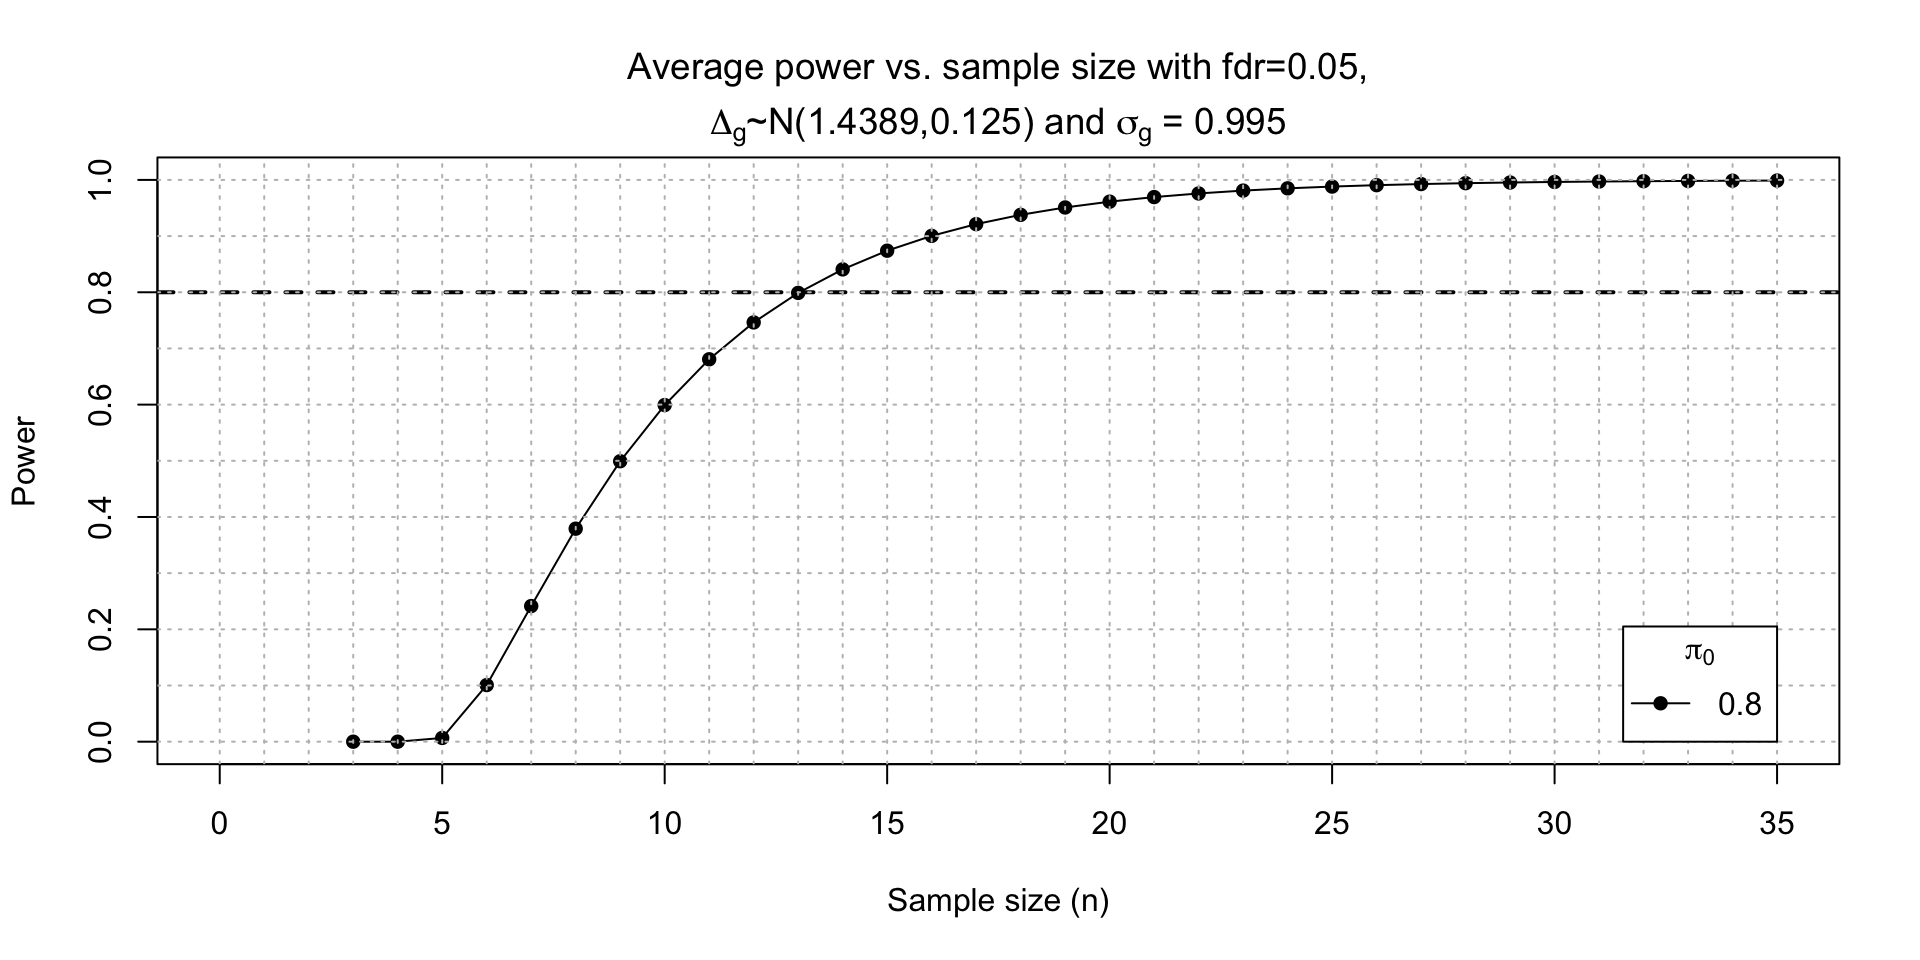
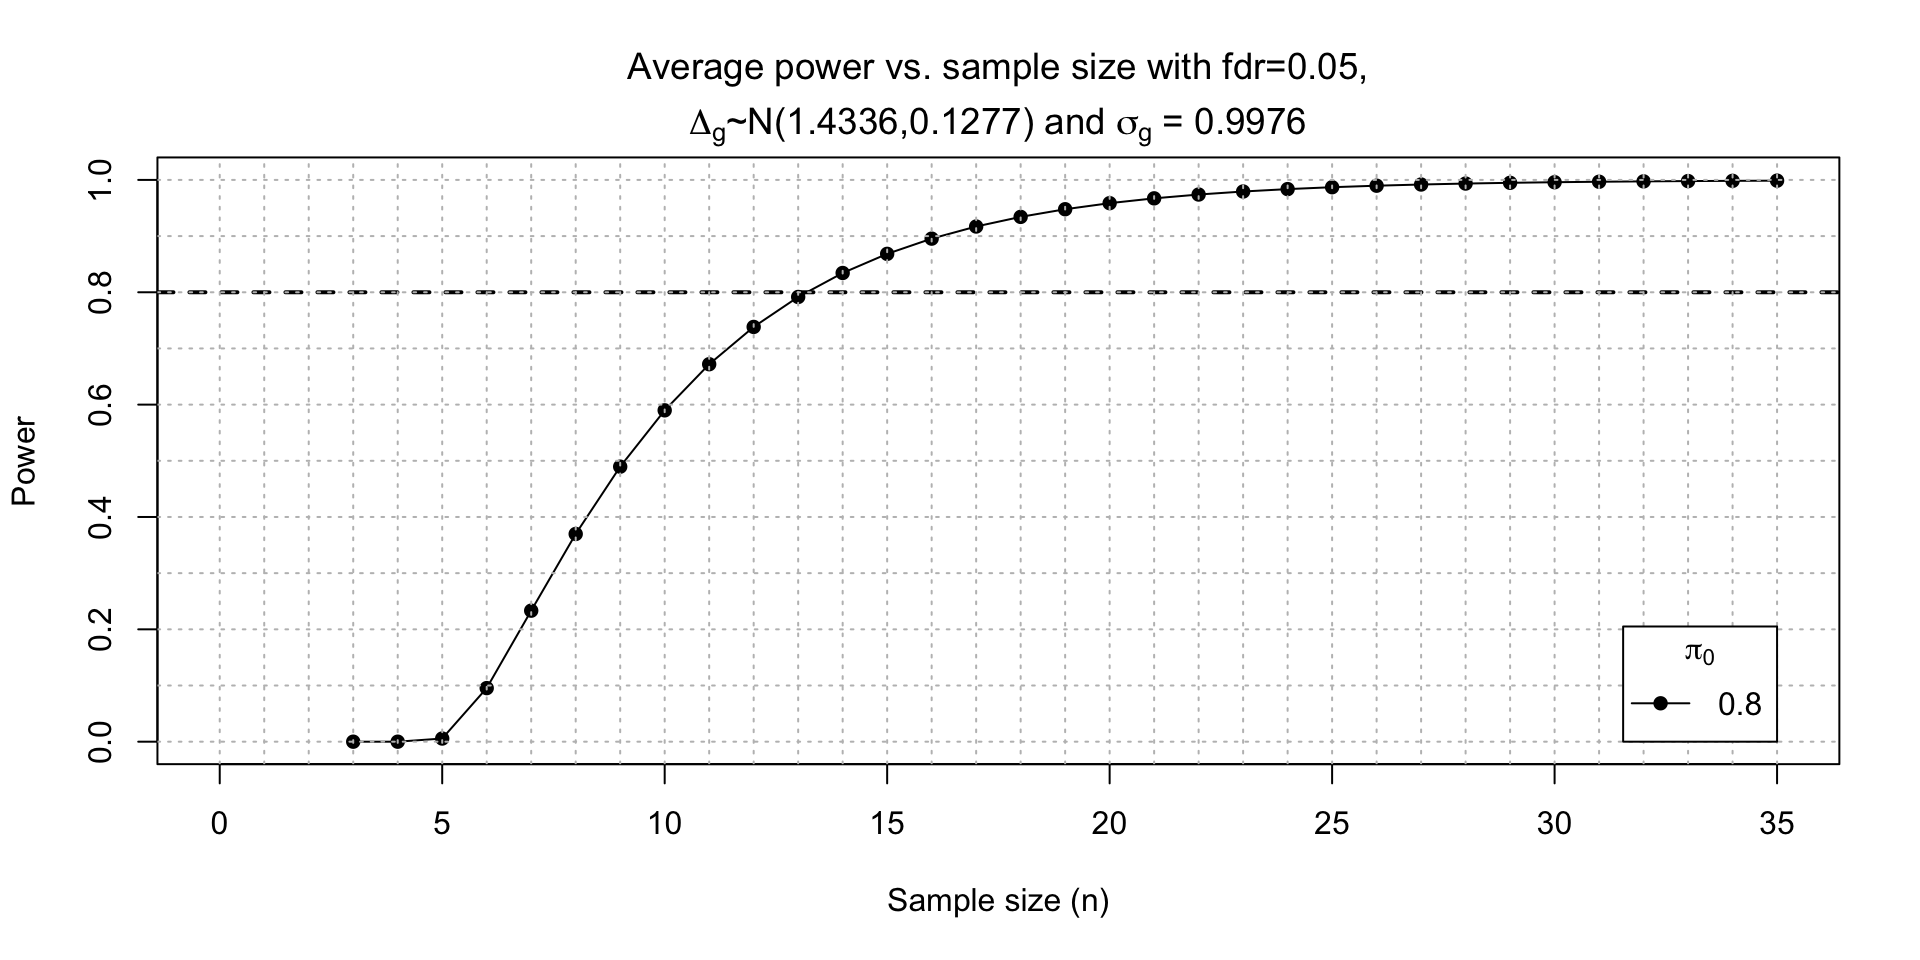
update tools

diff --git a/2023_11_PowerSampleSize_OCTRIBERD_RNAseq/2023_11_pss_rnaseq.html b/2023_11_PowerSampleSize_OCTRIBERD_RNAseq/2023_11_pss_rnaseq.html
@@ -700,12 +700,24 @@ Jessica Minnier
 <h2>Power calculation software/tools</h2>
 <ul>
 <li><p>See review in <span class="citation" data-cites="jeon2023statistical">Jeon et al. (<a href="#/thank-you" role="doc-biblioref" onclick="">2023</a>)</span> and comparisons in <span class="citation" data-cites="poplawski2018feasibility">Poplawski and Binder (<a href="#/thank-you" role="doc-biblioref" onclick="">2018</a>)</span></p></li>
-<li><p><a href="https://bioconductor.org/packages/release/bioc/html/RNASeqPower.html">RNASeqPower</a> Bioconductor/R package</p></li>
-<li><p><a href="https://www.bioconductor.org/packages/release/bioc/html/RnaSeqSampleSize.html">RnaSeqSampleSize</a> Bioconductor/R package and <a href="https://cqs-vumc.shinyapps.io/rnaseqsamplesizeweb/">web/Shiny app</a></p></li>
-<li><p><a href="https://cran.r-project.org/web/packages/ssizeRNA/index.html">ssizeRNA</a> R package (based on voom/limma)</p></li>
-<li><p><a href="https://bioconductor.org/packages/devel/bioc/vignettes/PROPER/inst/doc/PROPER.pdf">PROPER</a> simulation based tool</p></li>
+<li><p><a href="https://bioconductor.org/packages/release/bioc/html/RNASeqPower.html">RNASeqPower</a> Bioconductor/R package</p>
+<ul>
+<li>closed form equation based on Score statistic, NB model</li>
+</ul></li>
+<li><p><a href="https://www.bioconductor.org/packages/release/bioc/html/RnaSeqSampleSize.html">RnaSeqSampleSize</a> Bioconductor/R package and <a href="https://cqs-vumc.shinyapps.io/rnaseqsamplesizeweb/">web/Shiny app</a></p>
+<ul>
+<li>NB model, gene-specific power function, can overestimate sample size</li>
+</ul></li>
+<li><p><a href="https://cran.r-project.org/web/packages/ssizeRNA/index.html">ssizeRNA</a> R package</p>
+<ul>
+<li>NB model with normal-based test statistic via voom</li>
+</ul></li>
+<li><p><a href="https://bioconductor.org/packages/devel/bioc/vignettes/PROPER/inst/doc/PROPER.pdf">PROPER</a> R package</p>
+<ul>
+<li>NB model simulation based</li>
+</ul></li>
 </ul>
-<p>Based on above reviews, ssizeRNA and PROPER were most recommended</p>
+<p>Based on above reviews and simulation studies, ssizeRNA and PROPER were most recommended</p>
 </section>
 <section id="example-r-code-ssizerna" class="slide level2">
 <h2>Example R code, ssizeRNA</h2>
@@ -740,7 +752,7 @@ Jessica Minnier
 <span id="cb2-3"><a href="#cb2-3"></a>size_out<span class="sc">$</span>ssize</span></code><button title="Copy to Clipboard" class="code-copy-button"><i class="bi"></i></button></pre></div>
 <div class="cell-output cell-output-stdout">
 <pre><code>     pi0 ssize     power
-[1,] 0.8    14 0.8407246</code></pre>
+[1,] 0.8    14 0.8343262</code></pre>
 </div>
 <div class="sourceCode cell-code" id="cb4"><pre class="sourceCode numberSource r number-lines code-with-copy"><code class="sourceCode r"><span id="cb4-1"><a href="#cb4-1"></a><span class="co"># power: power calculations with corresponding sample sizes.</span></span>
 <span id="cb4-2"><a href="#cb4-2"></a>size_out<span class="sc">$</span>power</span></code><button title="Copy to Clipboard" class="code-copy-button"><i class="bi"></i></button></pre></div>
@@ -748,37 +760,37 @@ Jessica Minnier
 <pre><code>       n       0.8
  [1,]  3 0.0000000
  [2,]  4 0.0000000
- [3,]  5 0.0066638
- [4,]  6 0.1008077
- [5,]  7 0.2414440
- [6,]  8 0.3791711
- [7,]  9 0.4992278
- [8,] 10 0.5992249
- [9,] 11 0.6807064
-[10,] 12 0.7463414
-[11,] 13 0.7988696
-[12,] 14 0.8407246
-[13,] 15 0.8739927
-[14,] 16 0.9003838
-[15,] 17 0.9212977
-[16,] 18 0.9378446
-[17,] 19 0.9509310
-[18,] 20 0.9612750
-[19,] 21 0.9694410
-[20,] 22 0.9758892
-[21,] 23 0.9809756
-[22,] 24 0.9849896
-[23,] 25 0.9881545
-[24,] 26 0.9906497
-[25,] 27 0.9926173
-[26,] 28 0.9941688
-[27,] 29 0.9953921
-[28,] 30 0.9963568
-[29,] 31 0.9971181
-[30,] 32 0.9977187
-[31,] 33 0.9981928
-[32,] 34 0.9985673
-[33,] 35 0.9988632</code></pre>
+ [3,]  5 0.0056349
+ [4,]  6 0.0953837
+ [5,]  7 0.2332468
+ [6,]  8 0.3697507
+ [7,]  9 0.4895573
+ [8,] 10 0.5898277
+ [9,] 11 0.6719140
+[10,] 12 0.7383110
+[11,] 13 0.7916434
+[12,] 14 0.8343262
+[13,] 15 0.8683667
+[14,] 16 0.8954845
+[15,] 17 0.9170581
+[16,] 18 0.9341977
+[17,] 19 0.9478082
+[18,] 20 0.9586136
+[19,] 21 0.9671815
+[20,] 22 0.9739771
+[21,] 23 0.9793624
+[22,] 24 0.9836318
+[23,] 25 0.9870162
+[24,] 26 0.9896963
+[25,] 27 0.9918202
+[26,] 28 0.9935033
+[27,] 29 0.9948379
+[28,] 30 0.9958952
+[29,] 31 0.9967344
+[30,] 32 0.9974001
+[31,] 33 0.9979283
+[32,] 34 0.9983481
+[33,] 35 0.9986814</code></pre>
 </div>
 </div>
 <img data-src="2023_11_pss_rnaseq_files/figure-revealjs/unnamed-chunk-1-1.png" width="960" class="r-stretch"></section>
@@ -868,45 +880,45 @@ Jessica Minnier
 <span id="cb13-3"><a href="#cb13-3"></a>size_out<span class="sc">$</span>ssize</span></code><button title="Copy to Clipboard" class="code-copy-button"><i class="bi"></i></button></pre></div>
 <div class="cell-output cell-output-stdout">
 <pre><code>     pi0 ssize     power
-[1,] 0.8     9 0.8490149</code></pre>
+[1,] 0.8     9 0.8434739</code></pre>
 </div>
 <div class="sourceCode cell-code" id="cb15"><pre class="sourceCode numberSource r number-lines code-with-copy"><code class="sourceCode r"><span id="cb15-1"><a href="#cb15-1"></a><span class="co"># power: power calculations with corresponding sample sizes.</span></span>
 <span id="cb15-2"><a href="#cb15-2"></a>size_out<span class="sc">$</span>power</span></code><button title="Copy to Clipboard" class="code-copy-button"><i class="bi"></i></button></pre></div>
 <div class="cell-output cell-output-stdout">
 <pre><code>       n       0.8
  [1,]  3 0.0000000
- [2,]  4 0.1545945
- [3,]  5 0.4350254
- [4,]  6 0.6132421
- [5,]  7 0.7255009
- [6,]  8 0.7990424
- [7,]  9 0.8490149
- [8,] 10 0.8840596
- [9,] 11 0.9092821
-[10,] 12 0.9278497
-[11,] 13 0.9417900
-[12,] 14 0.9524310
-[13,] 15 0.9606823
-[14,] 16 0.9671624
-[15,] 17 0.9723155
-[16,] 18 0.9764605
-[17,] 19 0.9798263
-[18,] 20 0.9825853
-[19,] 21 0.9848669
-[20,] 22 0.9867673
-[21,] 23 0.9883619
-[22,] 24 0.9897103
-[23,] 25 0.9908561
-[24,] 26 0.9918371
-[25,] 27 0.9926804
-[26,] 28 0.9934098
-[27,] 29 0.9940432
-[28,] 30 0.9945966
-[29,] 31 0.9950812
-[30,] 32 0.9955081
-[31,] 33 0.9958852
-[32,] 34 0.9962199
-[33,] 35 0.9965175</code></pre>
+ [2,]  4 0.1495363
+ [3,]  5 0.4275414
+ [4,]  6 0.6056247
+ [5,]  7 0.7184589
+ [6,]  8 0.7927465
+ [7,]  9 0.8434739
+ [8,] 10 0.8792088
+ [9,] 11 0.9050462
+[10,] 12 0.9241417
+[11,] 13 0.9385395
+[12,] 14 0.9495731
+[13,] 15 0.9581587
+[14,] 16 0.9649286
+[15,] 17 0.9703306
+[16,] 18 0.9746886
+[17,] 19 0.9782380
+[18,] 20 0.9811584
+[19,] 21 0.9835790
+[20,] 22 0.9856014
+[21,] 23 0.9873035
+[22,] 24 0.9887461
+[23,] 25 0.9899756
+[24,] 26 0.9910298
+[25,] 27 0.9919385
+[26,] 28 0.9927263
+[27,] 29 0.9934120
+[28,] 30 0.9940121
+[29,] 31 0.9945390
+[30,] 32 0.9950036
+[31,] 33 0.9954149
+[32,] 34 0.9957807
+[33,] 35 0.9961065</code></pre>
 </div>
 </div>
 <img data-src="2023_11_pss_rnaseq_files/figure-revealjs/unnamed-chunk-2-1.png" width="960" class="r-stretch"></section>
